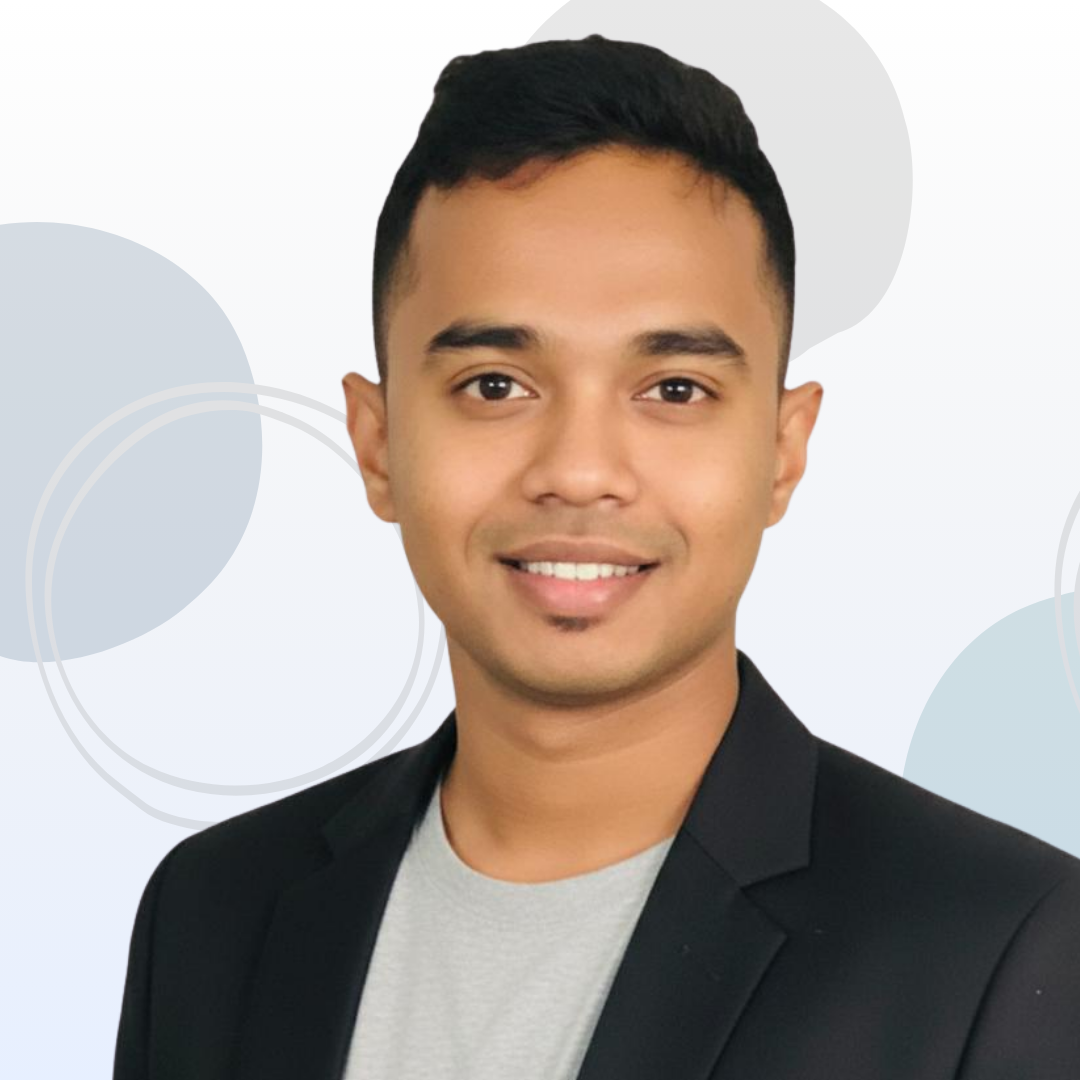
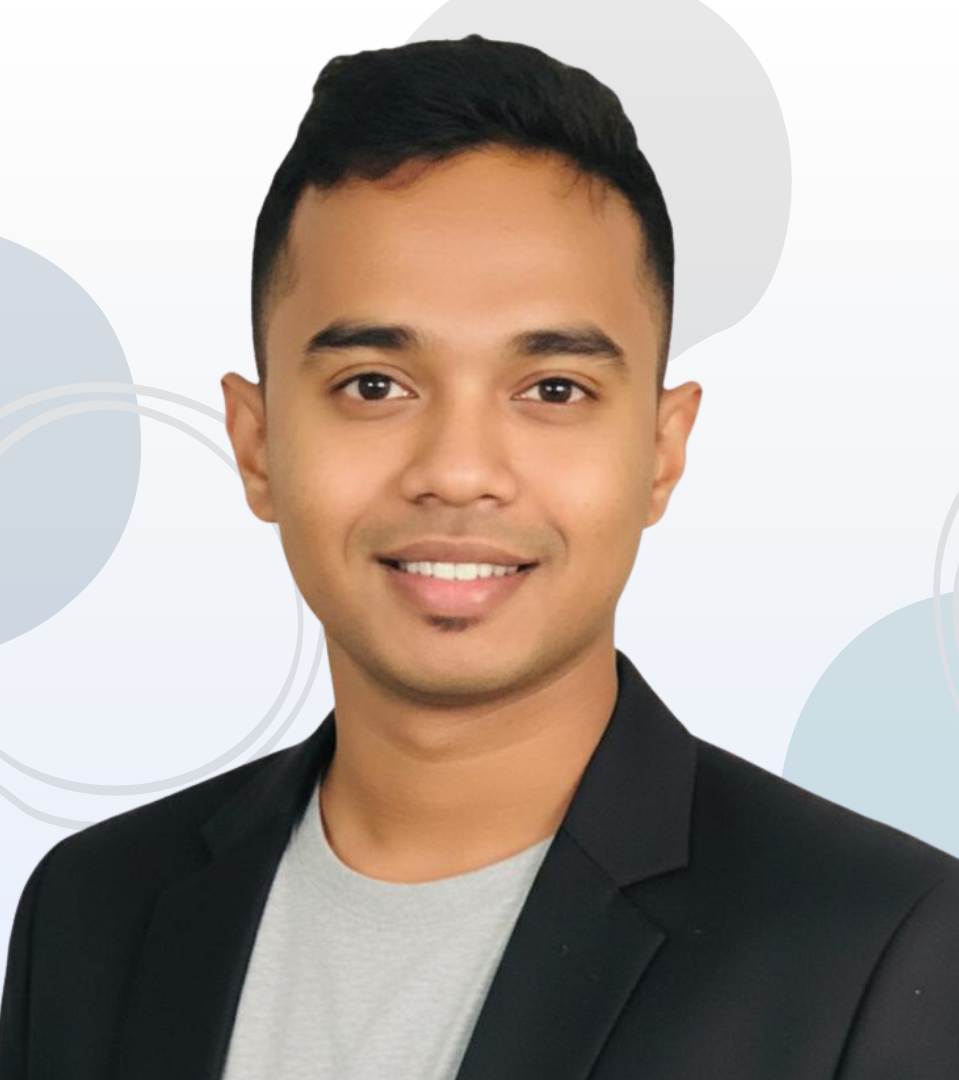
Frontend change

diff --git a/test-react/src/components/FAQ.jsx b/test-react/src/components/FAQ.jsx
@@ -2,24 +2,42 @@ import { useState } from "react";
 
 const faqs = [
   {
-    question: "Where are the classes conducted?",
-    answer: "All classes are conducted LIVE online via Google Meet. You will receive the meeting link after registration." // From Circular
+    question: "Is this course suitable for beginners?",
+    answer:
+      "Yes. The ISML Foundation Program is specially designed for absolute beginners."
   },
   {
-    question: "What is the duration of the program?",
-    answer: "The Foundation Program runs for 12-14 weeks. Each session is 2 hours long (1.5 hrs teaching + 30 mins guided speaking practice)." // From Circular
+    question: "Which languages are offered?",
+    answer:
+      "French 🇫🇷, German 🇩🇪, and Japanese 🇯🇵 (N5 level launching soon)."
   },
   {
-    question: "Can I pay in installments?",
-    answer: "No. As per the 2026 Academic Circular, the fee of ₹1,299 is a one-time payment with no installment options." // From Circular
+    question: "What is the course duration?",
+    answer: "Approximately 3 months (12–14 weeks)."
   },
   {
-    question: "What languages are available in this batch?",
-    answer: "The 2026 Foundation Batch focuses on French (DELF A1) and German (Goethe A1)." // Clarifying Circular vs Profile
+    question: "Are the classes live or recorded?",
+    answer:
+      "Classes are live online, with recorded sessions available for revision."
   },
   {
-    question: "Will I get a certificate?",
-    answer: "Yes. Upon successful completion of the course and mock assessments, you will receive an official ISML Certificate." // From Circular
+    question: "What is the class schedule?",
+    answer:
+      "Each class is 2 hours (1.5 hrs class + 30 mins doubt clearing session). Weekday and weekend batches are available."
+  },
+  {
+    question: "Are doubt-clearing sessions included?",
+    answer:
+      "Yes. Regular doubt-clearing sessions are part of the program."
+  },
+  {
+    question: "Will a certificate be provided?",
+    answer:
+      "Yes. Students receive an ISML Course Completion Certificate."
+  },
+  {
+    question: "What is the course fee?",
+    answer: "The Foundation Program starts at ₹1,299."
   }
 ];
 
@@ -29,21 +47,32 @@ export default function FAQ() {
   return (
     <section id="faq" className="faq-section">
       <div className="faq-container">
-        <h2 className="section-title center">Frequently Asked Questions</h2>
-        
+
+        <h2 className="section-title center">
+          Frequently Asked Questions
+        </h2>
+
+        {/* FAQ LIST */}
         <div className="faq-list">
           {faqs.map((item, index) => {
             const isOpen = openIndex === index;
+
             return (
               <div
                 key={index}
                 className={`faq-item ${isOpen ? "open" : ""}`}
-                onClick={() => setOpenIndex(isOpen ? null : index)}
               >
-                <div className="faq-question">
+                {/* CLICK ONLY ON QUESTION HEADER */}
+                <div
+                  className="faq-question"
+                  onClick={() =>
+                    setOpenIndex(isOpen ? null : index)
+                  }
+                >
                   <span>{item.question}</span>
                   <span className="arrow">▼</span>
                 </div>
+
                 <div className="faq-content">
                   <p className="faq-answer">{item.answer}</p>
                 </div>
@@ -51,6 +80,27 @@ export default function FAQ() {
             );
           })}
         </div>
+
+        {/* SUPPORT SECTION */}
+        <div className="faq-support">
+          <h3>Still have questions?</h3>
+
+          <p>
+            Need assistance with courses, enrollment, or classes?
+            We’re happy to help.
+          </p>
+
+          <div className="support-actions">
+            <a href="tel:+917338881781">
+              <span>📞</span> 733 888 1781
+            </a>
+
+            <a href="mailto:enquiry.isml@gmail.com">
+              <span>📧</span> enquiry.isml@gmail.com
+            </a>
+          </div>
+        </div>
+
       </div>
     </section>
   );

diff --git a/test-react/src/index.css b/test-react/src/index.css
@@ -432,7 +432,37 @@ backdrop-filter: blur(12px);
 /* Mobile Mentor */
 @media (max-width: 900px) {
   .mentor-grid { grid-template-columns: 1fr; gap: 30px; padding: 25px; text-align: center; }
-  .mentor-image-wrapper { height: 250px; width: 100%; }
+  .mentor-image-wrapper {
+  width: 100%;
+  height: 350px;
+  border-radius: 22px;
+  overflow: hidden;
+  position: relative;
+
+  /* PREMIUM GLASS FRAME */
+  background: rgba(255,255,255,0.04);
+  backdrop-filter: blur(10px);
+  border: 1px solid rgba(255,255,255,0.12);
+
+  box-shadow:
+    0 20px 40px rgba(0,0,0,0.35),
+    inset 0 0 40px rgba(0,160,255,0.05);
+
+  transition: transform 0.4s ease, box-shadow 0.4s ease;
+}
+.mentor-image-wrapper:hover {
+  transform: scale(1.03);
+  box-shadow:
+    0 30px 60px rgba(0,0,0,0.45),
+    inset 0 0 60px rgba(0,160,255,0.1);
+    
+}
+
+.mentor-image-wrapper img {
+  width: 100%;
+  height: 100%;
+}
+  .mentor-title { font-size: 0.85rem; }
   .mentor-name { font-size: 1.8rem; }
   .session-row { flex-direction: column; gap: 15px; text-align: left; padding-bottom: 15px; margin-bottom: 15px; }
   .mentor-actions { flex-direction: column; gap: 15px; }
@@ -797,18 +827,78 @@ backdrop-filter: blur(12px);
 .section-title.center { text-align: center; margin-bottom: 40px; }
 .faq-list { display: flex; flex-direction: column; gap: 16px; }
 .faq-item {
-  background: rgba(255,255,255,0.06);
-backdrop-filter: blur(12px);
- border-radius: 12px; overflow: hidden;
-  border: 1px solid var(--border-soft); transition: all 0.3s ease; cursor: pointer;
+  background: rgba(0,160,255,0.08); /* brighter blue glass */
+  backdrop-filter: blur(14px);
+  border-radius: 12px;
+  overflow: hidden;
+  border: 1px solid rgba(0,224,255,0.25);
+  transition: all 0.3s ease;
+  cursor: pointer;
 }
-.faq-item.open { border-color: var(--primary); box-shadow: 0 10px 30px rgba(0, 84, 166, 0.08); }
-.faq-question { padding: 20px 24px; display: flex; justify-content: space-between; align-items: center; font-weight: 600; color: var(--text-main); }
-.faq-content { max-height: 0; overflow: hidden; transition: max-height 0.3s ease-out; background: rgba(255,255,255,0.04); }
-.faq-item.open .faq-content { max-height: 200px; }
+
+.faq-item.open {
+  border-color: var(--accent);
+  box-shadow:
+    0 15px 35px rgba(0,224,255,0.15),
+    inset 0 0 30px rgba(0,160,255,0.05);
+}
+
+.faq-question { padding: 20px 24px; display: flex; justify-content: space-between; align-items: center; font-weight: 700; color: #e6f4ff; }
+.faq-content { max-height: 0;
+  overflow: hidden;
+  opacity: 0;
+  transform: translateY(-5px);
+  transition: 
+    max-height 0.4s ease,
+    opacity 0.3s ease,
+    transform 0.3s ease; background: rgba(255,255,255,0.04); }
+.faq-item.open .faq-content {
+  max-height: 500px; /* big enough so text fully expands */
+  opacity: 1;
+  transform: translateY(0);
+}
+
 .faq-answer { padding: 0 24px 24px; color: var(--text-muted); line-height: 1.6; }
 .arrow { transition: transform 0.3s ease; color: var(--accent); }
 .faq-item.open .arrow { transform: rotate(180deg); }
+.faq-item:hover {
+  transform: translateY(-2px);
+  box-shadow: 0 10px 25px rgba(0,224,255,0.12);
+}
+
+
+.faq-support {
+  margin-top: 40px;
+  padding: 30px;
+  border-radius: 16px;
+  background: rgba(0,160,255,0.08);
+  border: 1px solid rgba(0,224,255,0.25);
+  text-align: center;
+}
+
+.faq-support h3 {
+  font-size: 1.5rem;
+  margin-bottom: 10px;
+  color: var(--text-main);
+}
+
+.support-actions {
+  margin-top: 16px;
+  display: flex;
+  justify-content: center;
+  gap: 20px;
+  flex-wrap: wrap;
+}
+
+.support-actions a {
+  background: rgba(255,255,255,0.06);
+  padding: 12px 18px;
+  border-radius: 10px;
+  color: var(--text-main);
+  text-decoration: none;
+  border: 1px solid rgba(255,255,255,0.1);
+}
+
 
 /* Footer CTA */
 .footer-cta-section {

diff --git a/test-react/src/components/Success.jsx b/test-react/src/components/Success.jsx
@@ -5,13 +5,38 @@ export default function Success() {
   return (
     <div className="status-page success">
       <div className="status-card">
+
         <h1>✅ Payment Successful</h1>
+
         <p>Your registration for the ISML Foundation Program is confirmed.</p>
         <p>We’ll contact you shortly with further details.</p>
 
         <a href="/" className="status-btn">
           Go Back to Home
         </a>
+
+        {/* ===== SUPPORT SECTION ===== */}
+        <div className="status-support">
+          <h3>Help & Support</h3>
+
+          <p>
+            Need assistance with courses, enrollment, or classes? 
+            We’re happy to help.
+          </p>
+
+          <div className="support-block">
+            <strong>📧 Email Support</strong>
+            <p>enquiry.isml@gmail.com</p>
+          </div>
+
+          <div className="support-block">
+            <strong>📞 Call Us</strong>
+            <p>733 888 1781</p>
+            <p>733 888 1780</p>
+            <p>733 888 0186</p>
+          </div>
+        </div>
+
       </div>
     </div>
   );

diff --git a/test-react/src/components/Failure.jsx b/test-react/src/components/Failure.jsx
@@ -5,13 +5,38 @@ export default function Failure() {
   return (
     <div className="status-page failure">
       <div className="status-card">
+
         <h1>❌ Payment Failed</h1>
+
         <p>Your payment could not be completed.</p>
         <p>Please try again or contact support.</p>
 
         <a href="/" className="status-btn">
           Try Again
         </a>
+
+        {/* ===== SUPPORT SECTION ===== */}
+        <div className="status-support">
+          <h3>Help & Support</h3>
+
+          <p>
+            Need assistance with courses, enrollment, or classes? 
+            We’re happy to help.
+          </p>
+
+          <div className="support-block">
+            <strong>📧 Email Support</strong>
+            <p>enquiry.isml@gmail.com</p>
+          </div>
+
+          <div className="support-block">
+            <strong>📞 Call Us</strong>
+            <p>733 888 1781</p>
+            <p>733 888 1780</p>
+            <p>733 888 0186</p>
+          </div>
+        </div>
+
       </div>
     </div>
   );

diff --git a/test-react/src/components/Tools.jsx b/test-react/src/components/Tools.jsx
@@ -18,16 +18,18 @@ export default function Tools() {
       icon: <img src="https://flagcdn.com/de.svg" alt="DE" className="flag-icon"/>, 
       desc: "Goethe Prep" 
     },
-    { name: "Speaking", icon: "🗣", desc: "Fluency" },
-    { name: "Reading", icon: "📖", desc: "Comprehension" },
-    { name: "Writing", icon: "✍", desc: "Grammar" },
-    { name: "Listening", icon: "🎧", desc: "Audio Training" },
-    { name: "Culture", icon: "🌏", desc: "Etiquette" },
+
     { 
       name: "CEFR", 
       icon: <img src="https://flagcdn.com/eu.svg" alt="EU" className="flag-icon"/>, 
       desc: "EU Standards" 
-    }
+    },
+    { name: "Speaking", icon: "🗣", desc: "Fluency" },
+    { name: "Reading", icon: "📖", desc: "Comprehension" },
+    { name: "Writing", icon: "✍", desc: "Grammar" },
+    { name: "Listening", icon: "🎧", desc: "Audio Training" },
+    { name: "Culture", icon: "🌏", desc: "Etiquette" }
+    
   ];
 
   const radius = 250; 

diff --git a/test-react/src/components/Hero.jsx b/test-react/src/components/Hero.jsx
@@ -11,11 +11,11 @@ export default function Hero({ onEnroll }) {
           
           <h1>
             Your Premier Destination for <br />
-            <span className="highlight-text">LEARNING LANGUAGES</span>
+            <span className="highlight-text">LANGUAGE LEARNING</span>
           </h1>
 
           <p className="hero-subtext">
-            Join the <strong>INDIAN SCHOOL FOR MODERN LANGUAGES Foundation Program</strong>. A structured 3-month certificate course 
+            Join the <strong>Indian School for Modern Languages Foundation Program</strong>. A structured 3-month certificate course 
             aligned with international standards (DELF, Goethe, CEFR). 
             Bridge cultures and build a global career.
           </p>

diff --git a/test-react/src/components/FooterCTA.jsx b/test-react/src/components/FooterCTA.jsx
@@ -4,9 +4,9 @@ export default function FooterCTA({ onEnroll }) {
   return (
     <section className="footer-cta-section fade-up show">
       <div className="footer-cta-content">
-        <h2>Don't Miss the Feb 15th Batch!</h2>
+        <h2>Don't Miss This Week Batch!</h2>
         <p>
-          Admissions are closing soon for the <strong>ISML Foundation Program 2026</strong>. 
+          Admissions are closing soon for the <strong>Indian School for Modern Languages Foundation Program 2026</strong>. 
           Secure your seat today and start your journey towards global opportunities.
         </p>
         

diff --git a/test-react/src/components/Certificate.jsx b/test-react/src/components/Certificate.jsx
@@ -12,7 +12,7 @@ export default function Certificate() {
           
           <h2>Validating Your 3-Month Journey</h2>
           <p className="cert-subtext">
-            Upon successful completion of the <strong>ISML Foundation Program</strong>, 
+            Upon successful completion of the <strong>Indian School for Modern Languages Foundation Program</strong>, 
             you will be awarded a Certificate of Completion. This document validates your 
             foundational proficiency in French, German, or Japanese.
           </p>
